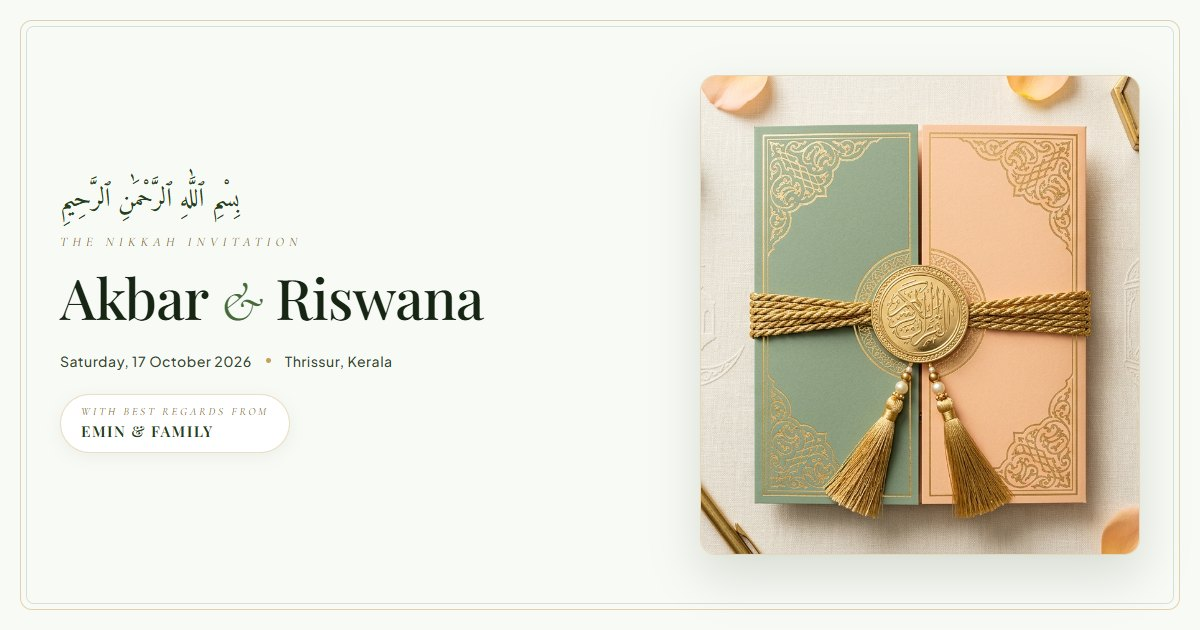
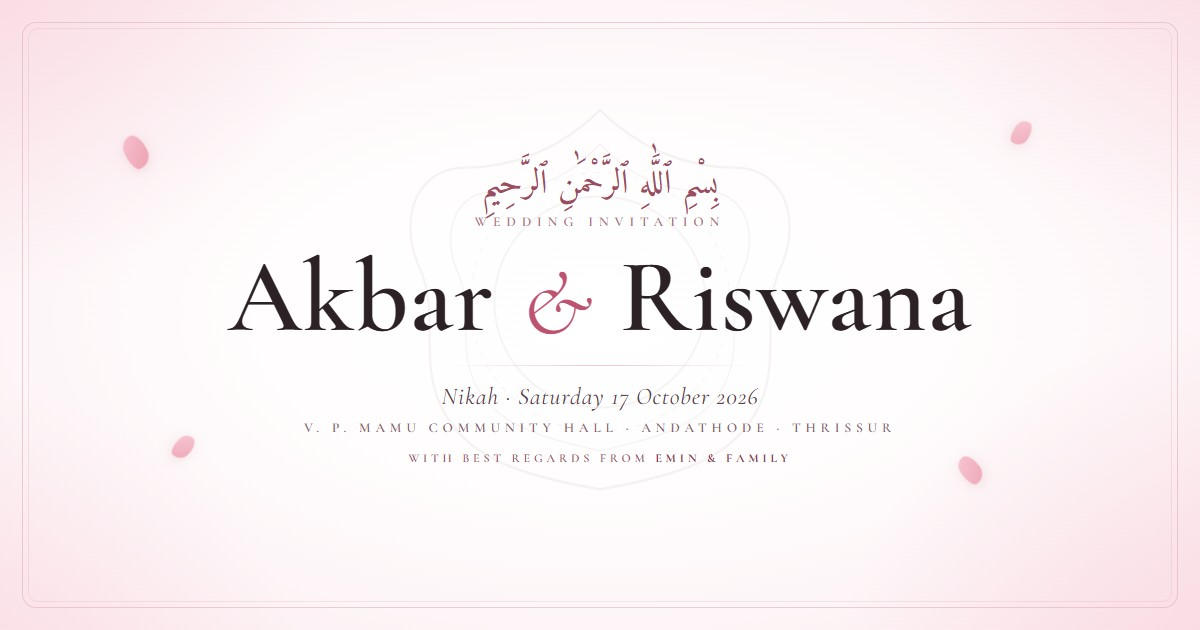
Update social share preview card and meta tags to match luxury blush card design

diff --git a/index.html b/index.html
@@ -12,20 +12,20 @@
 <meta property="og:type" content="website" />
 <meta property="og:site_name" content="Akbar &amp; Riswana" />
 <meta property="og:url" content="https://akbar-riswana.vercel.app/" />
-<meta property="og:title" content="Akbar &amp; Riswana — Royal Nikkah Invitation" />
-<meta property="og:description" content="Together with our families, we invite you to celebrate our Nikkah ceremony on Saturday, 17 October 2026 at V. P. Mamu Community Hall, Andathode, Thrissur." />
+<meta property="og:title" content="Akbar &amp; Riswana — Wedding Invitation" />
+<meta property="og:description" content="Nikah · Saturday 17 October 2026, Thrissur. Kerala. Best regards from EMIN &amp; FAMILY." />
 <meta property="og:image" content="https://akbar-riswana.vercel.app/og-image.jpg" />
 <meta property="og:image:secure_url" content="https://akbar-riswana.vercel.app/og-image.jpg" />
 <meta property="og:image:type" content="image/jpeg" />
 <meta property="og:image:width" content="1200" />
 <meta property="og:image:height" content="630" />
-<meta property="og:image:alt" content="Akbar &amp; Riswana Luxury Nikkah Invitation Card" />
+<meta property="og:image:alt" content="Akbar &amp; Riswana Wedding Invitation Card" />
 
 <!-- Twitter / X Card Meta Tags -->
 <meta name="twitter:card" content="summary_large_image" />
 <meta name="twitter:url" content="https://akbar-riswana.vercel.app/" />
-<meta name="twitter:title" content="Akbar &amp; Riswana — Royal Nikkah Invitation" />
-<meta name="twitter:description" content="Together with our families, we invite you to celebrate our Nikkah ceremony on Saturday, 17 October 2026 at V. P. Mamu Community Hall, Andathode, Thrissur." />
+<meta name="twitter:title" content="Akbar &amp; Riswana — Wedding Invitation" />
+<meta name="twitter:description" content="Nikah · Saturday 17 October 2026, Thrissur. Kerala. Best regards from EMIN &amp; FAMILY." />
 <meta name="twitter:image" content="https://akbar-riswana.vercel.app/og-image.jpg" />
 
 <link rel="icon" type="image/svg+xml"
